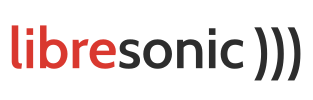
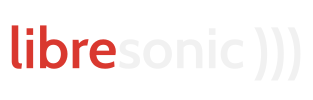
New colored header

Changed region(s): [[0.3738, 0.39, 0.7764, 0.69], [0.8051, 0.27, 0.9776, 0.81], [0.6613, 0.27, 0.6901, 0.36]]

diff --git a/css/styles.scss b/css/styles.scss
@@ -200,7 +200,7 @@ HEADER SECTION
     width: 100%;
     height: 6rem;
     margin-bottom: 6rem;
-    background-color: #fff;
+    background-color: #1a222c;
     color: $blue;
     border-bottom: 1px solid transparent;
     z-index: 100;
@@ -211,9 +211,6 @@ HEADER SECTION
         .title img {
             height: 6rem;
             transition: opacity 0.2s ease;
-            &:hover {
-                opacity: 0.9;
-            }
         }
         .menu {
             ul {
@@ -230,17 +227,20 @@ HEADER SECTION
             }
             a {
                 font-size: 1.6rem;
+                color: $light-grey;
                 text-decoration: none;
-                padding: 0.75rem 0.75rem;
-                border-radius: 1rem;
-                border: 2px solid;
+                padding: 0.5rem 0.25rem;
+                border-bottom: 3px solid;
                 border-color: transparent;
-                transition: color 0.2s ease-in-out, border-color 0.2s ease-in-out;
+                transition: border-color 0.2s ease-in-out;
                 &:hover {
                     border-color: $red;
                 }
                 &.active {
-                    background: $light-grey;
+                    border-color: $light-grey;
+                    &:hover {
+                        border-color: $red;
+                    }
                 }
             }
         }
@@ -248,7 +248,7 @@ HEADER SECTION
 }
 
 .shadows {
-    box-shadow: 0 8px 8px rgba(0, 0, 0, 0.1);
+    box-shadow: 0 8px 8px rgba(0, 0, 0, 0.2);
     border-bottom: 1px solid #e1e1e1;
 }
 
@@ -258,6 +258,7 @@ HEADER SECTION
     margin: 1.5rem;
     text-decoration:none;
     border:none;
+    color: $light-grey;
     cursor: pointer;
     font-size: 2rem;
     &:hover {
@@ -300,7 +301,7 @@ HEADER SECTION
                 }
                 ul {
                     position: absolute;
-                    top: 4rem;
+                    top: 4.3rem;
                     left: 0;
                     padding: 0.5rem 0;
                     display: none;
@@ -314,8 +315,13 @@ HEADER SECTION
                         width: 94%;
                         margin: 0.5rem 3%;
                         a {
-                            margin: 0 !important;
+                            color: $light-dark;
+                            margin: 0 auto !important;
                             display: block;
+                            width: 40%;
+                            &.active {
+                                border-color: $light-dark;
+                            }
                         }
                     }
                 }

diff --git a/_includes/header.html b/_includes/header.html
@@ -2,7 +2,7 @@
   <div class="wrap">
     <div class="title float-left">
         <a href="/">
-            <img src="/img/libresonic_dark_313x100.png" alt="">
+            <img src="/img/libresonic_red_313x100.png" alt="">
         </a>
     </div>
     <nav class="menu float-right">
